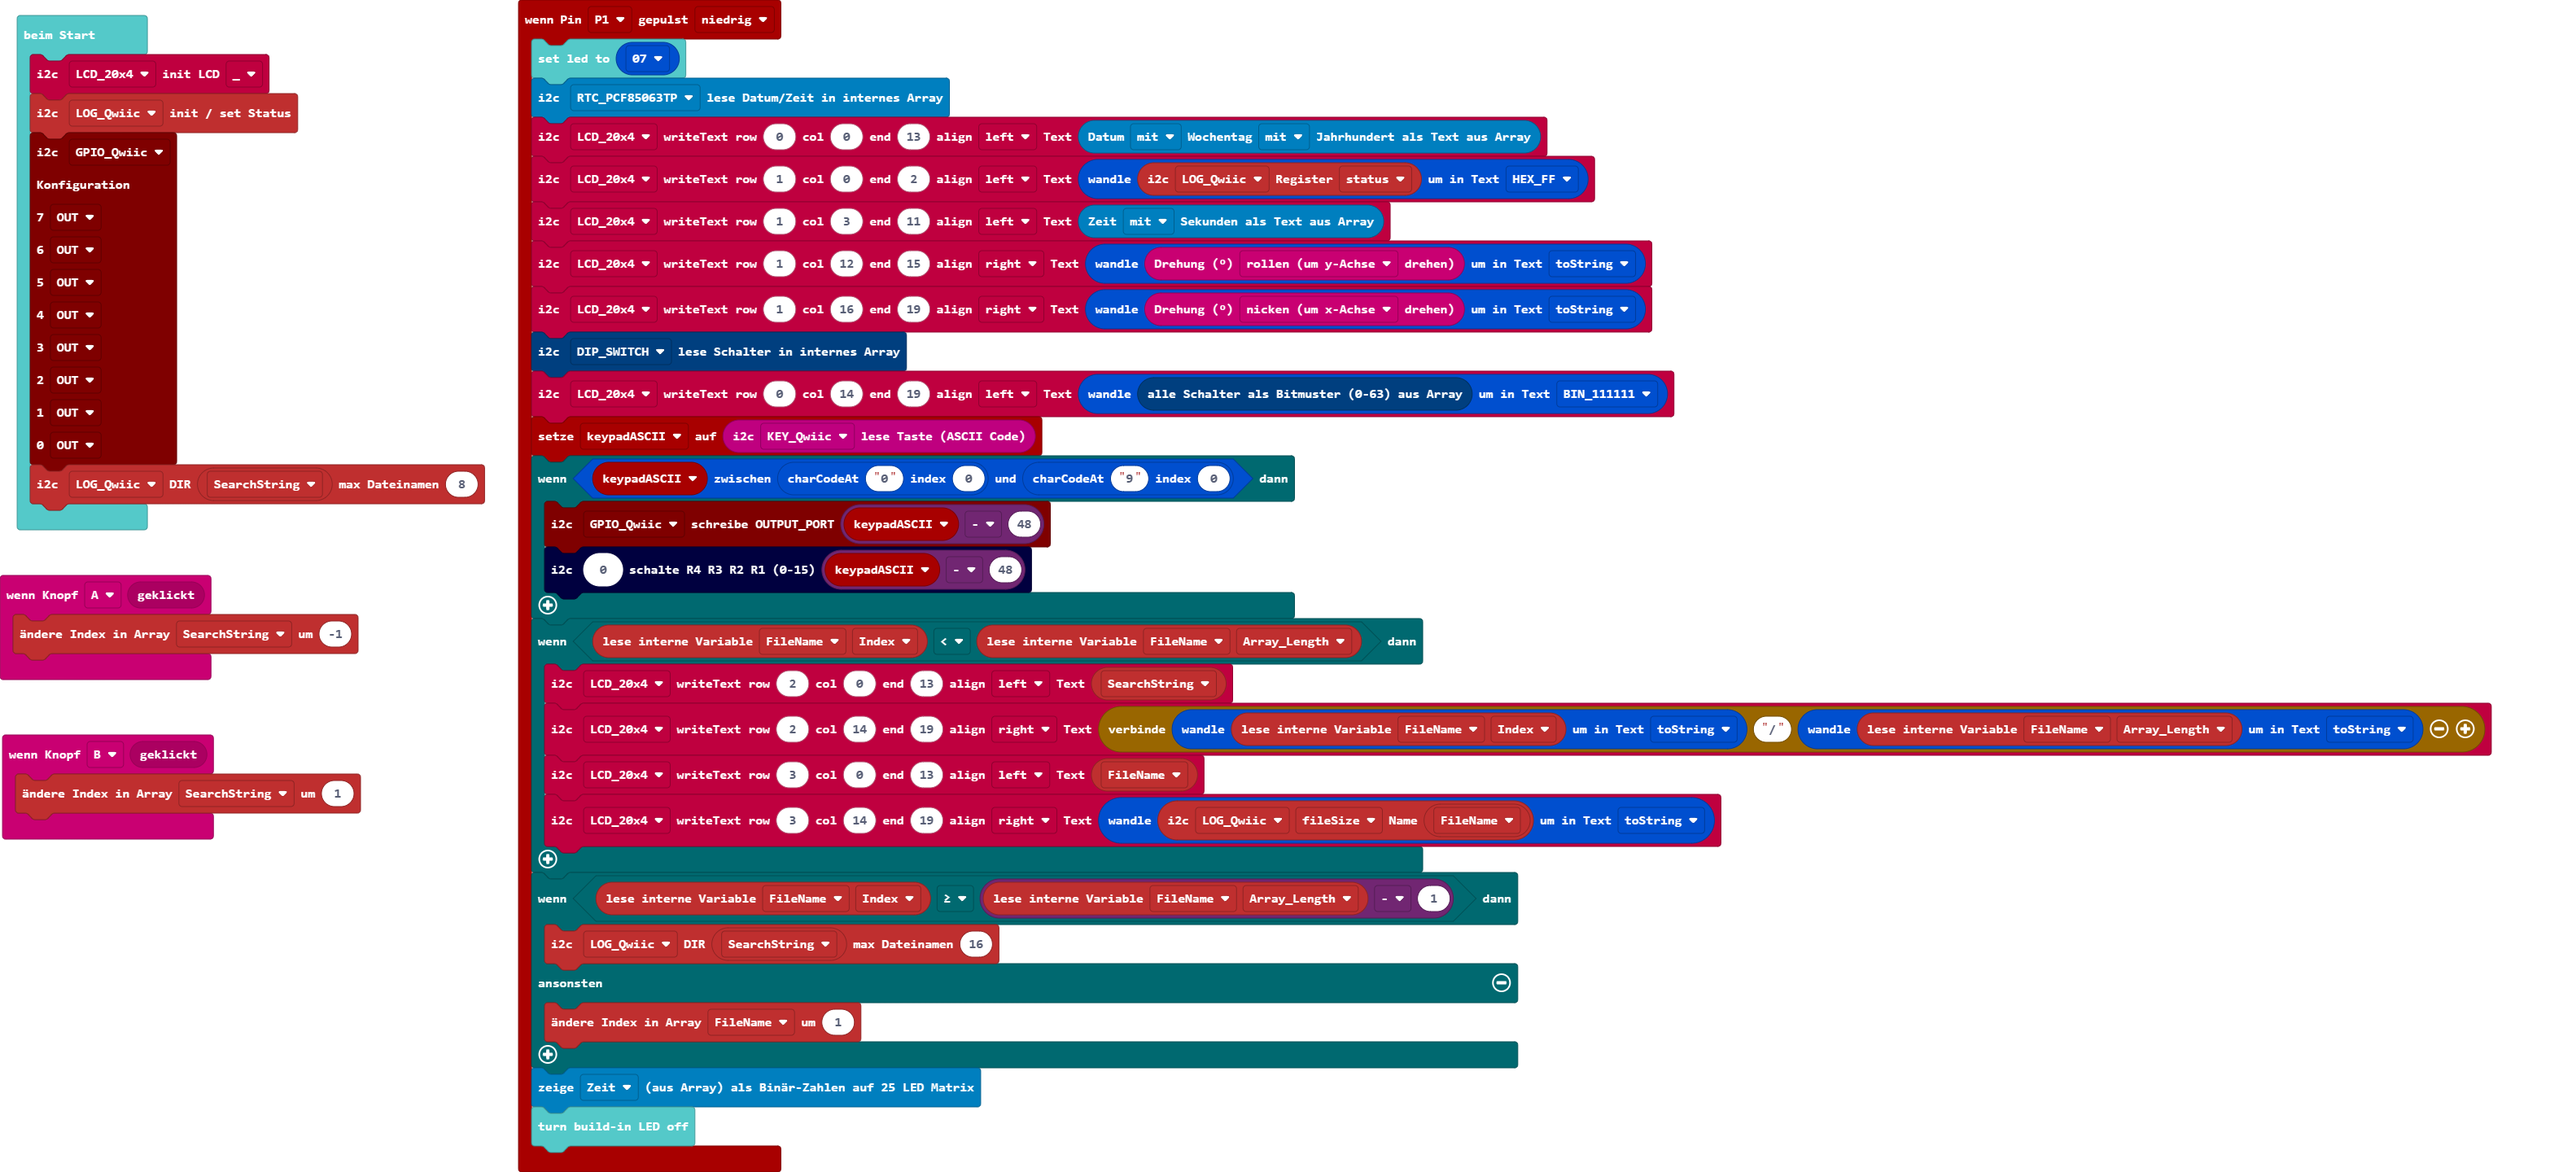
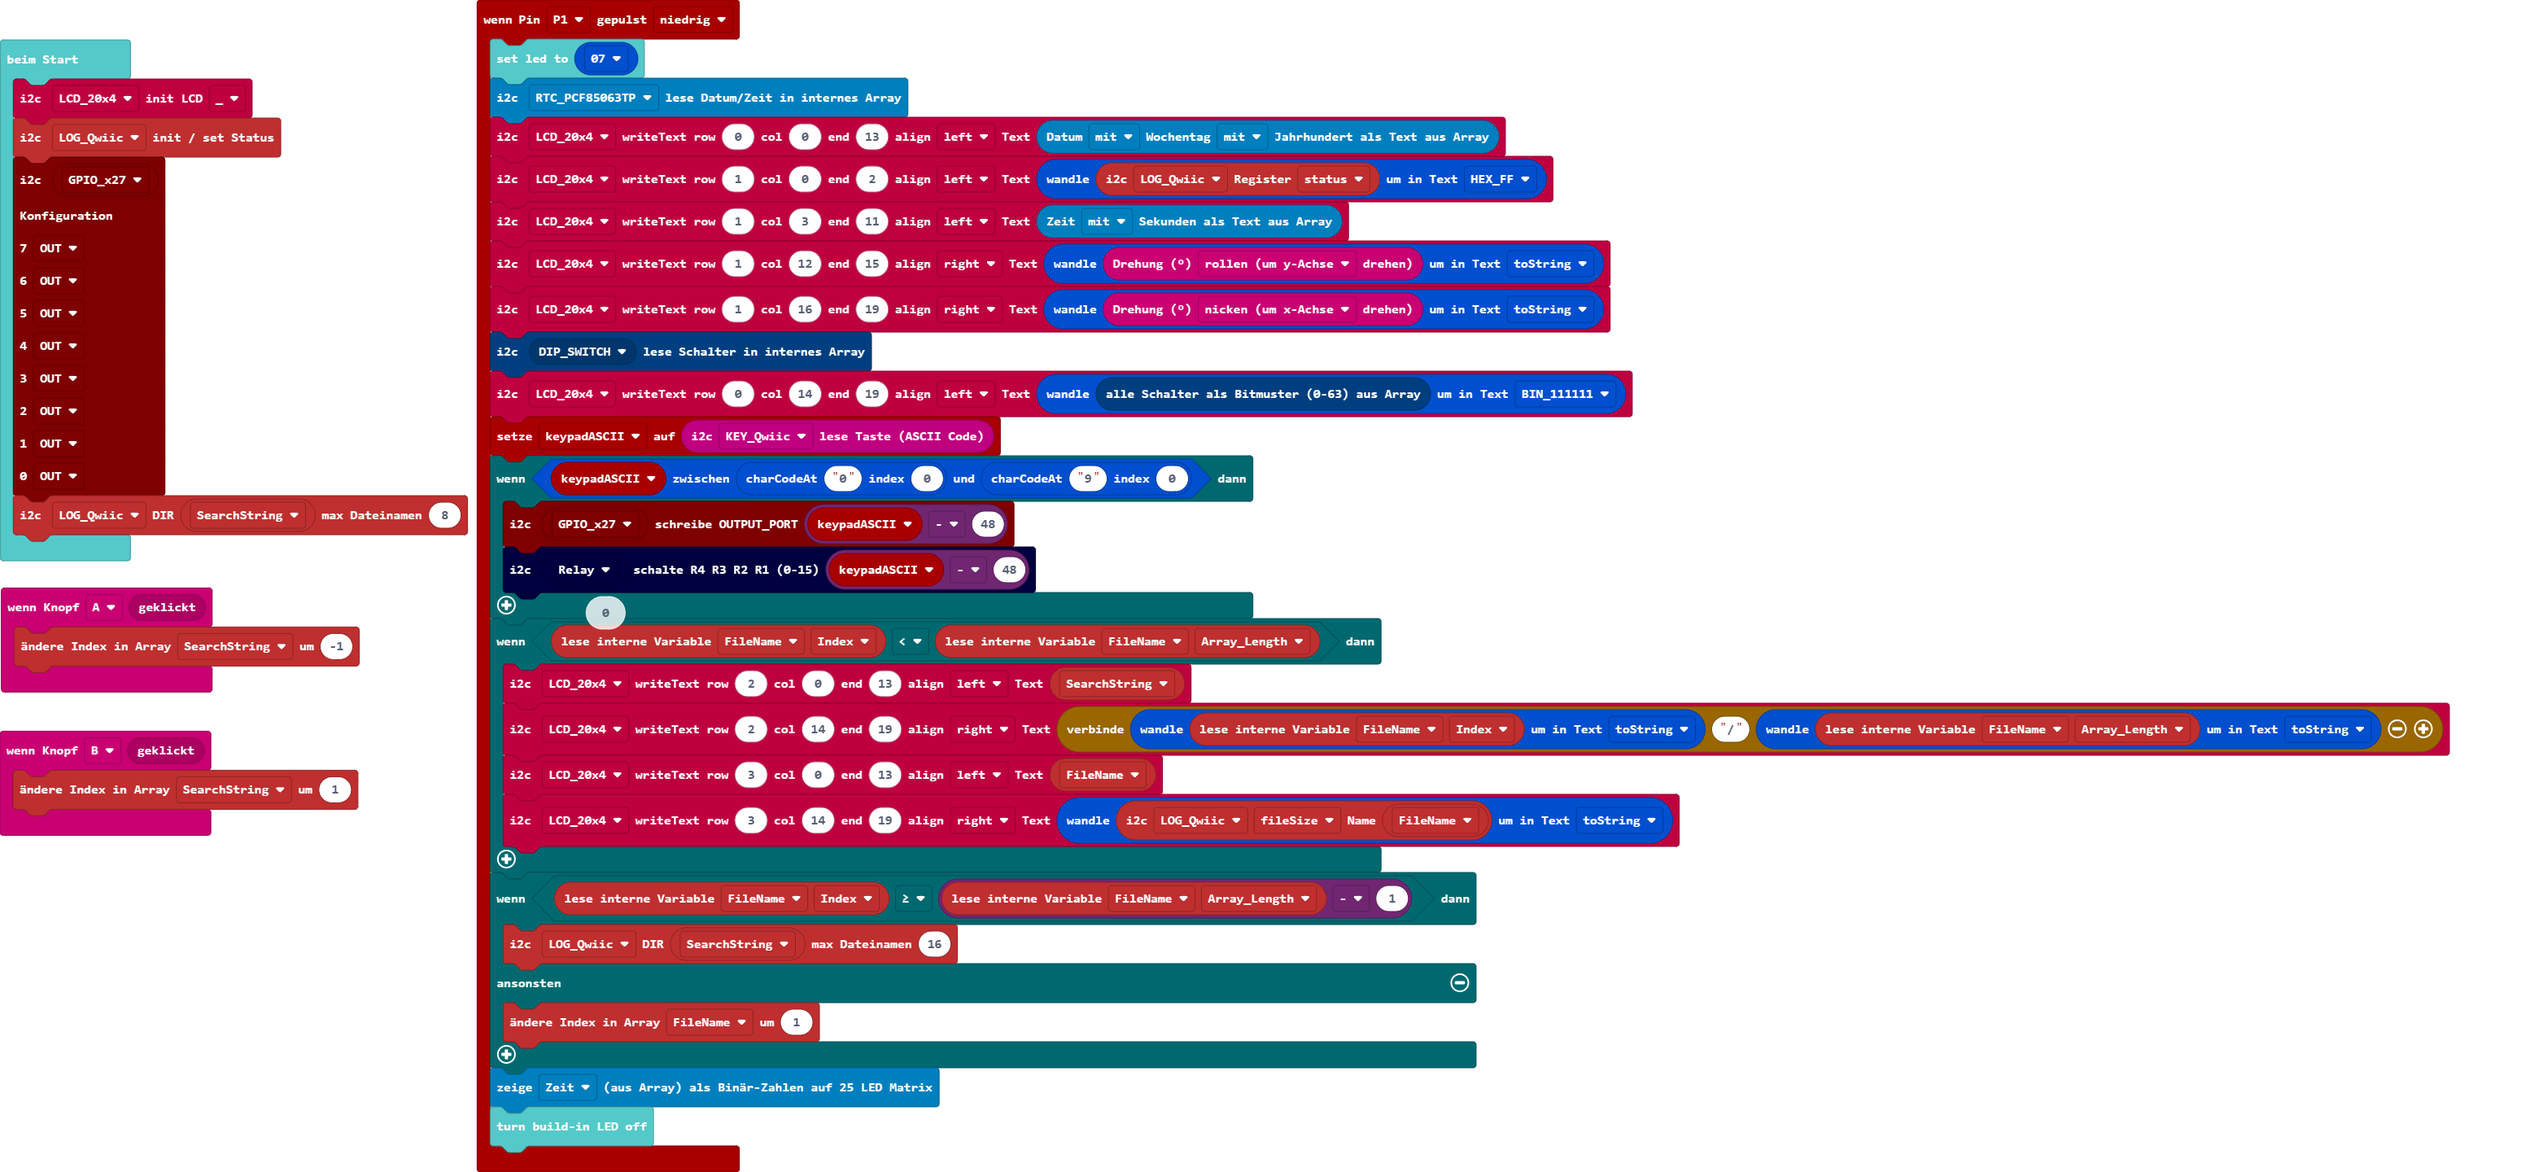
Aktualisiere pxt.json, main.blocks, main.ts

diff --git a/main.ts b/main.ts
@@ -9,12 +9,12 @@ pins.onPulsed(DigitalPin.P1, PulseValue.Low, function () {
     lcd20x4.writeText(lcd20x4.eADDR.LCD_20x4, 1, 3, 11, lcd20x4.eAlign.left, rtcpcf85063tp.getTime(rtcpcf85063tp.ePart.mit))
     lcd20x4.writeText(lcd20x4.eADDR.LCD_20x4, 1, 12, 15, lcd20x4.eAlign.right, bit.formatNumber(input.rotation(Rotation.Roll), bit.eLength.toString))
     lcd20x4.writeText(lcd20x4.eADDR.LCD_20x4, 1, 16, 19, lcd20x4.eAlign.right, bit.formatNumber(input.rotation(Rotation.Pitch), bit.eLength.toString))
-    dipswitch.readSwitch(dipswitch.eADDR.DIP_SWITCH)
+    dipswitch.readSwitch(dipswitch.dipswitch_eADDR(dipswitch.eADDR.DIP_SWITCH))
     lcd20x4.writeText(lcd20x4.eADDR.LCD_20x4, 0, 14, 19, lcd20x4.eAlign.left, bit.formatNumber(dipswitch.getBIN(), bit.eLength.BIN_111111))
     keypadASCII = qwiickeypad.getButton(qwiickeypad.eADDR.KEY_Qwiic)
     if (bit.between(keypadASCII, bit.charCodeAt("0", 0), bit.charCodeAt("9", 0))) {
-        qwiicgpio.writeOUTPUT_PORT(qwiicgpio.eADDR.GPIO_Qwiic, keypadASCII - 48)
-        spdtrelay.channelCtrl(0, keypadASCII - 48)
+        qwiicgpio.writeOUTPUT_PORT(qwiicgpio.qwiicgpio_eADDR(qwiicgpio.eADDR.GPIO_x27), keypadASCII - 48)
+        spdtrelay.channelCtrl(spdtrelay.spdtrelay_eADDR(spdtrelay.eADDR.Relay), keypadASCII - 48)
     }
     if (qwiicopenlog.getInt(qwiicopenlog.eArray.FileName, qwiicopenlog.eInt.Index) < qwiicopenlog.getInt(qwiicopenlog.eArray.FileName, qwiicopenlog.eInt.Array_Length)) {
         lcd20x4.writeText(lcd20x4.eADDR.LCD_20x4, 2, 0, 13, lcd20x4.eAlign.left, qwiicopenlog.getString(qwiicopenlog.eArray.SearchString))
@@ -37,7 +37,7 @@ let keypadASCII = 0
 lcd20x4.initLCD(lcd20x4.eADDR.LCD_20x4, lcd20x4.eINIT._)
 qwiicopenlog.checkStatusRegister(qwiicopenlog.eADDR.LOG_Qwiic)
 qwiicgpio.setMode(
-qwiicgpio.eADDR.GPIO_Qwiic,
+qwiicgpio.qwiicgpio_eADDR(qwiicgpio.eADDR.GPIO_x27),
 qwiicgpio.eIO.OUT,
 qwiicgpio.eIO.OUT,
 qwiicgpio.eIO.OUT,
